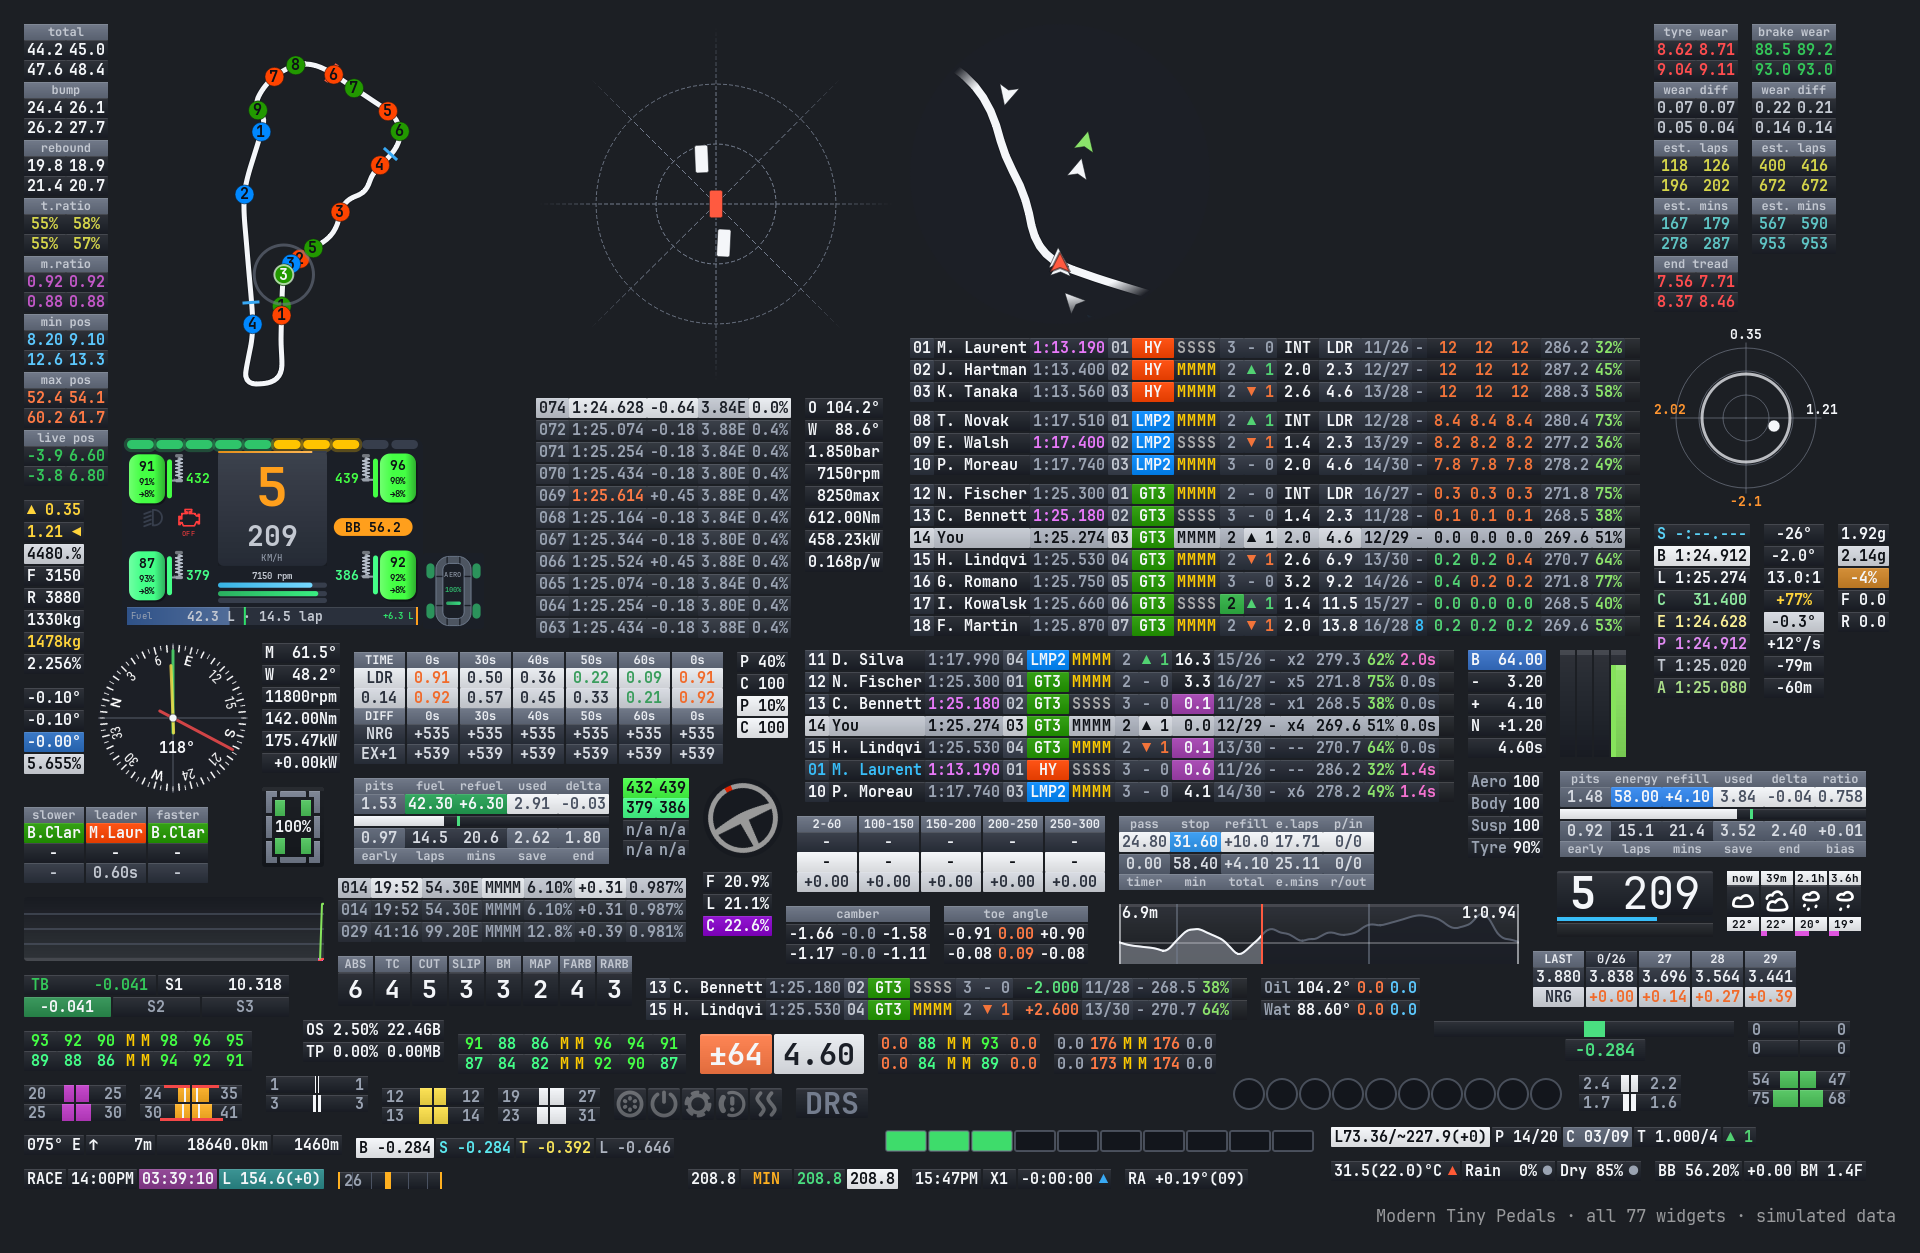
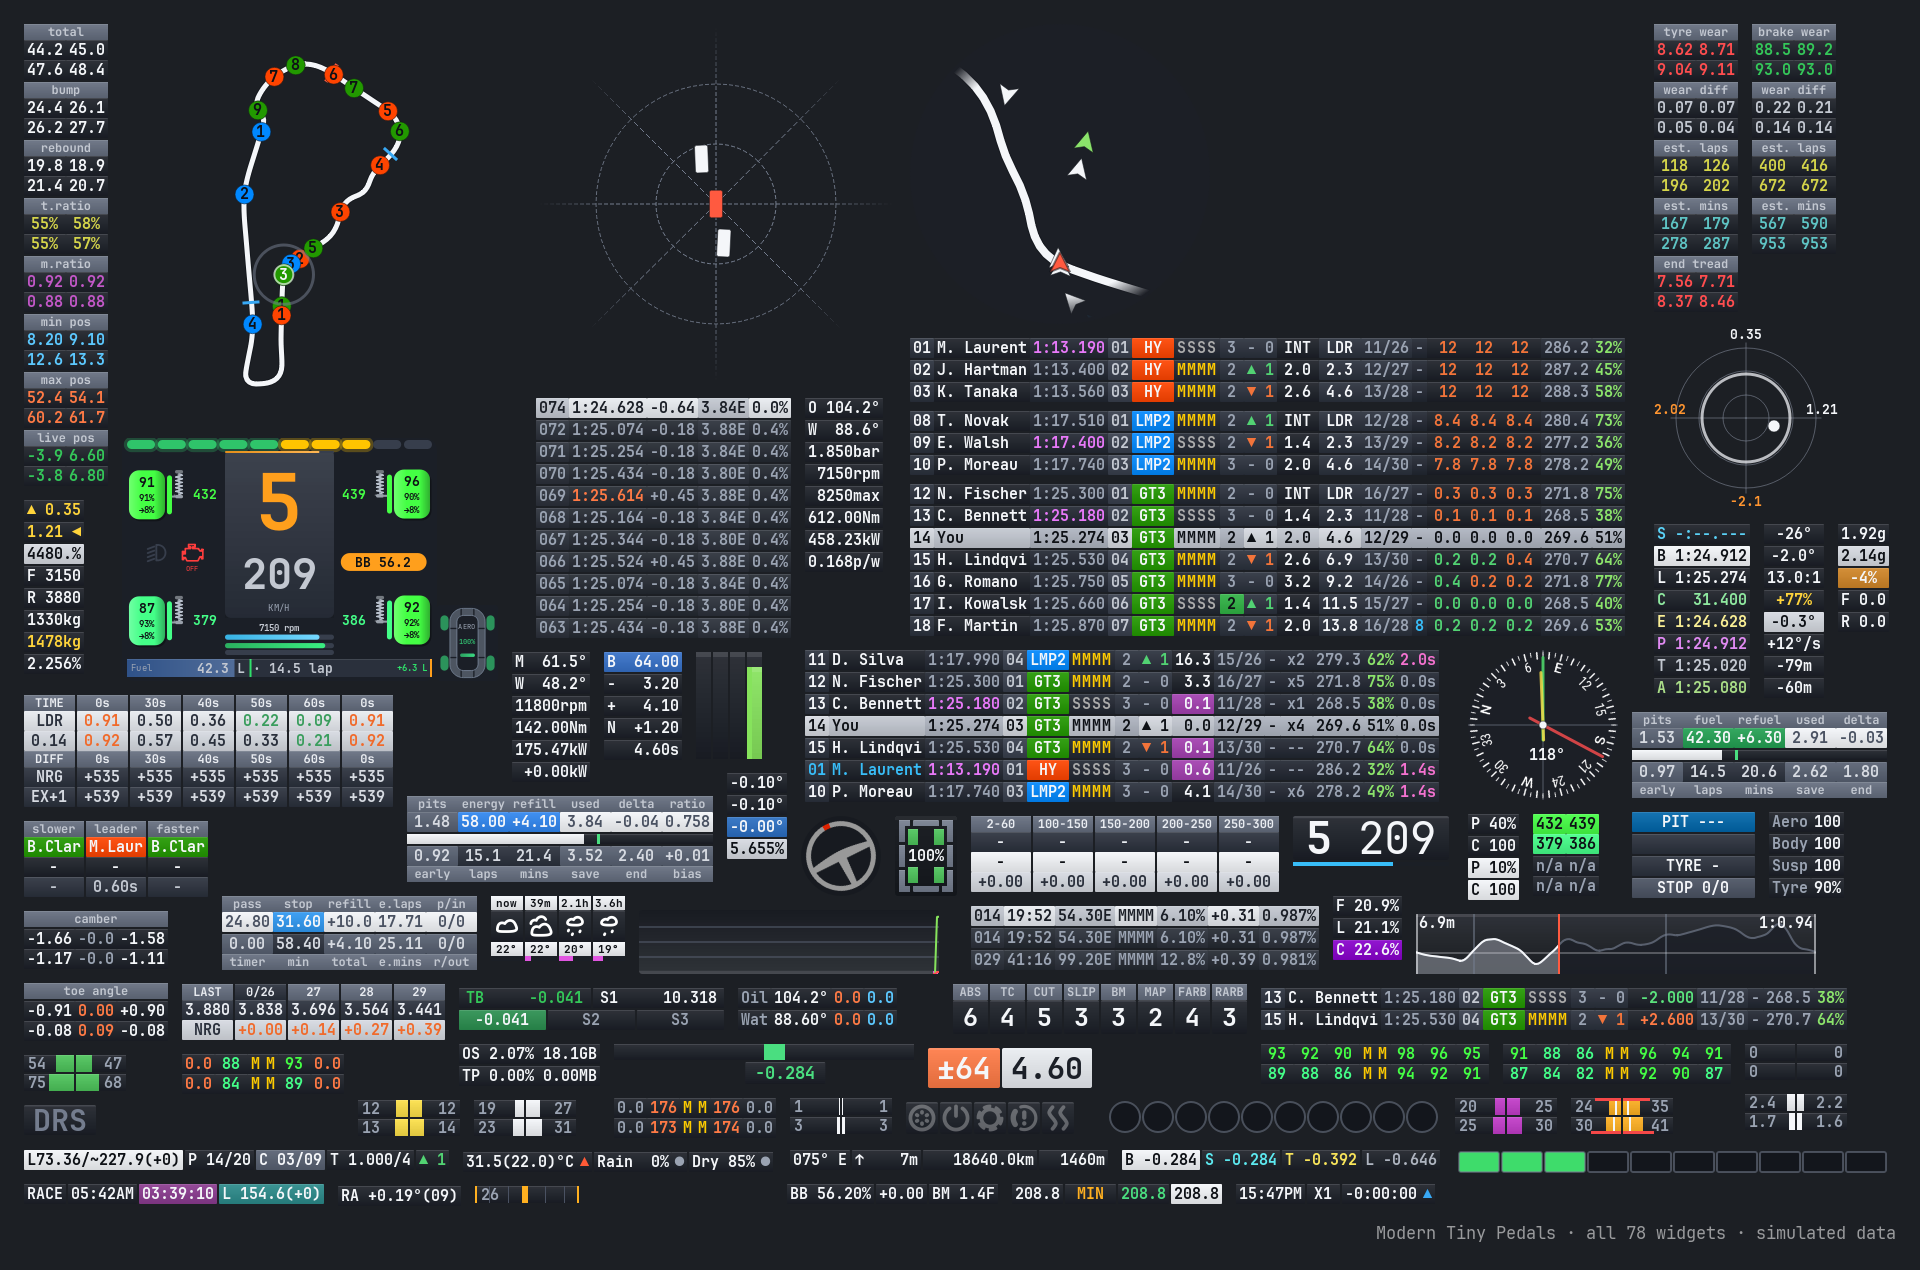
Update changelog & README for 0.16.0

diff --git a/CHANGELOG.md b/CHANGELOG.md
@@ -3,6 +3,54 @@
 Toutes les nouveautés de **Modern Tiny Pedals**, la version la plus récente en premier.
 La liste détaillée des commits de chaque version est aussi sur la page [Releases](https://github.com/Keenny38/ModernTinyPedals/releases).
 
+## 0.16.0 (2026-10-04)
+
+### Calculateur de course (nouveau)
+
+Le calculateur de carburant et la stratégie pneus ne font plus qu'un outil, **Calculateur de course** (entrée « Course » de la barre de navigation). Les anciennes entrées de la barre et les pages ouvertes s'y redirigent toutes seules.
+
+- **Une page, deux onglets** : réglages de course et chiffres clés en haut, communs, puis onglets **Carburant** et **Pneus**. Tout est en français, s'adapte aux petites fenêtres et se recalcule dès qu'une valeur est validée (Entrée ou en quittant le champ).
+- **Plan d'arrêts tour par tour** : à chaque arrêt, tour, carburant et énergie à remettre (plein tant que d'autres relais suivent, juste ce qu'il faut au dernier), pneus, pilote et durée de l'arrêt. Bouton `Copier` pour le partager en texte.
+- **Frise de stratégie** : un bloc par relais, tours d'arrêt au-dessus (en orange quand on change de pneus), lisible même en course de 24 h.
+- **Chiffres clés** : carburant et énergie de la course, arrêts (et ce qui les impose : carburant, énergie ou durée des relais), relais le plus long, plein moyen par arrêt (ou carburant à charger quand il n'y a pas d'arrêt), pneus utilisés sur le maximum autorisé.
+- **Course au temps juste** : carburant et énergie partagent les mêmes arrêts, et le nombre de tours dépend vraiment du temps perdu aux stands (ravitaillement, pneus, changement de pilote).
+- **Marge de sécurité** en tours, gardée à chaque arrêt et à l'arrivée.
+- **Arrêts au stand réalistes** : débit de ravitaillement carburant et énergie (un complément coûte moins qu'un plein), pneus changés pendant le ravitaillement ou après, temps de changement de pilote.
+- **Règlement** : arrêts obligatoires, durée maximale d'un relais, pilotes qui se relaient.
+- **Rythme** : effet du carburant sur le temps au tour et évolution de la piste au fil des heures.
+- **Objectif d'économie** : consommation à tenir pour gagner un arrêt, ou pour faire un nombre de tours par relais.
+- **Voitures à énergie seule** planifiées sur l'énergie.
+- **Remplissage intelligent** depuis le direct ou un fichier : moyenne des 5 derniers tours valides au rythme course (tours de stand écartés). En direct, la longueur de la course est reprise de la session, l'historique se met à jour tout seul, et l'option `Suivre le direct` met aussi à jour les saisies.
+- **Historique de consommation** : tri par colonne, filtre `Tours valides seulement`, sélection par tours entiers (tours invalides ignorés), bouton `Colonnes`, et suppression de tours ou de tout l'historique (`Supprimer la sélection`, `Tout supprimer`).
+- **Plan pneus relié à la stratégie** : une ligne par relais, temps de changement de pneus ajouté à l'arrêt, usure = usure par tour x tours du relais, ajustée selon la gomme (`Gomme mesurée`).
+- **`Proposer les changements`** : pneus neufs roue par roue au relais où la gomme passerait sous le minimum (2 pneus quand un seul essieu en a besoin), dans la limite des pneus autorisés ; s'il en manque, les meilleurs pneus usés sont remontés et les relais concernés signalés.
+- **Plan pneus gardé d'une session à l'autre**, avec annuler / rétablir (`Ctrl+Z` / `Ctrl+Y`) ; en tapant une valeur, les lignes ne sont plus perdues.
+- **Fichier plan de course** (`.race-plan`) : réglages, saisies et plan pneus dans un seul fichier, à garder ou partager avec l'équipe. Toutes les saisies sont aussi retrouvées à la réouverture, et `Remettre à zéro` les efface.
+
+### Widget Plan de course (nouveau)
+
+- **Le prochain arrêt en jeu** : tour de l'arrêt et tours restants (mis en évidence à l'approche), carburant et énergie à remettre, pneus à changer, arrêts restants. Le plan est refait à partir des saisies du calculateur, même fermé.
+
+### Black box
+
+- **Plus aucun chevauchement** : pneus, disques et suspensions qui braquent et bougent avec la suspension ne passent plus sur les LEDs RPM, les pastilles TC/BB/MAP ni les températures de freins. La place est réservée au braquage maximum, l'arrière braquant moins, et le débattement dessiné est plafonné.
+
+### Statistiques pilote
+
+- **Page modernisée** : chiffres clés du circuit (meilleur tour et sa voiture, niveau, distance, temps de conduite, tours valides, courses), tableau lisible, carte de référence de la voiture sélectionnée.
+- **Comparaison aux temps de la communauté** (feuille LMU d'[ohne_speed](https://www.youtube.com/@ohne_speed)) : chaque record est placé sur une échelle de niveaux, d'**Alien** à **Hors rythme**, avec son écart en % au temps de référence de la catégorie et la voiture la plus rapide. Les noms de circuits LMU et leurs variantes sont reconnus automatiquement. La feuille est téléchargée une fois par jour et gardée hors ligne ; menu `Référence` pour l'actualiser, changer de feuille ou désactiver la comparaison.
+
+### Mises à jour
+
+- **Page « Nouveautés » modernisée** : version et date de publication en en-tête, une carte par thème, détails techniques (commits, empreintes SHA256) repliés, texte adapté à la taille de la fenêtre.
+- **Bouton `Télécharger et installer` toujours disponible** (téléchargement dans le navigateur quand l'installation automatique n'est pas possible). La demande d'installation d'une nouvelle version utilise la même page.
+- **Messages de mise à jour traduits** (« Nouvelle version : v… », « Aucune mise à jour disponible »).
+
+### Interface
+
+- **Retour sur la dernière page au redémarrage**, même après un plantage ou un arrêt de Windows : la page affichée est enregistrée dès qu'elle change, plus seulement en quittant par le menu.
+- **Palette de commandes** : chercher « carburant », « stratégie pneus » ou « fuel calculator » trouve le Calculateur de course.
+
 ## 0.15.0 (2026-10-04)
 
 ### Visionneuse de télémétrie (Telemetry)

diff --git a/README.md b/README.md
@@ -1,6 +1,6 @@
 # Modern Tiny Pedals
 
-**Overlay de télémétrie pour Le Mans Ultimate et rFactor 2**, libre et gratuit. 77 widgets configurables (pneus, freins, carburant, delta, classement, radar, météo…), des outils d'analyse et une interface en français.
+**Overlay de télémétrie pour Le Mans Ultimate et rFactor 2**, libre et gratuit. 78 widgets configurables (pneus, freins, carburant, delta, classement, radar, météo…), des outils d'analyse et une interface en français.
 
 Modern Tiny Pedals est une version modernisée de [TinyPedal](https://github.com/TinyPedal/TinyPedal) : même base solide, avec une nouvelle interface, de nouveaux outils et beaucoup de travail sur la fiabilité.
 
@@ -11,7 +11,7 @@ Modern Tiny Pedals est une version modernisée de [TinyPedal](https://github.com
 [Changelog](CHANGELOG.md) ·
 [Feuille de route](docs/ROADMAP.md)
 
-![Aperçu des 77 overlays (style modern) sur une course simulée à Road Atlanta](images/readme_preview.png)
+![Aperçu des 78 overlays (style modern) sur une course simulée à Road Atlanta](images/readme_preview.png)
 
 ---
 
@@ -41,7 +41,7 @@ Pour rFactor 2 : copie `rFactor2SharedMemoryMapPlugin64.dll` dans `rFactor 2\Bin
 
 ## Ce que cette version apporte
 
-> **Nouveau dans la 0.15.0** : visionneuse de télémétrie plus lisible et plus complète (unités, axes, valeurs au curseur, virages numérotés, analyse de pilotage, axe en temps, export CSV, tours gardés et notes). Détails dans le [changelog](CHANGELOG.md).
+> **Nouveau dans la 0.16.0** : **Calculateur de course** (carburant, énergie et pneus réunis, plan d'arrêts tour par tour, course au temps avec le temps aux stands, règlement, plan pneus relié aux relais, fichier plan de course), widget **Plan de course** pour le prochain arrêt en jeu, **statistiques pilote** comparées aux temps de la communauté LMU, Black box sans chevauchement, page **Nouveautés** modernisée. Détails dans le [changelog](CHANGELOG.md).
 
 **Interface**
 - Interface Qt 6 modernisée, en français ou en anglais (changement à chaud), avec noms et bulles d'aide des options traduits.
@@ -71,7 +71,7 @@ Pour rFactor 2 : copie `rFactor2SharedMemoryMapPlugin64.dll` dans `rFactor 2\Bin
 - Installeur Windows et mises à jour vérifiées (SHA-256) depuis l'app.
 - Sauvegardes automatiques des presets, écriture de fichiers atomique, redémarrage automatique des threads plantés.
 - Plugins de widgets avec gestionnaire, rapport de bug en un clic, moniteur de performance.
-- Plus de 1200 tests automatisés (85 % du code couvert), vérification de types et lint en intégration continue.
+- Plus de 1300 tests automatisés (85 % du code couvert), vérification de types et lint en intégration continue.
 
 Tout est détaillé dans le [guide des réglages](docs/customization.md), et les nouveautés de chaque version dans le [changelog](CHANGELOG.md).
 
